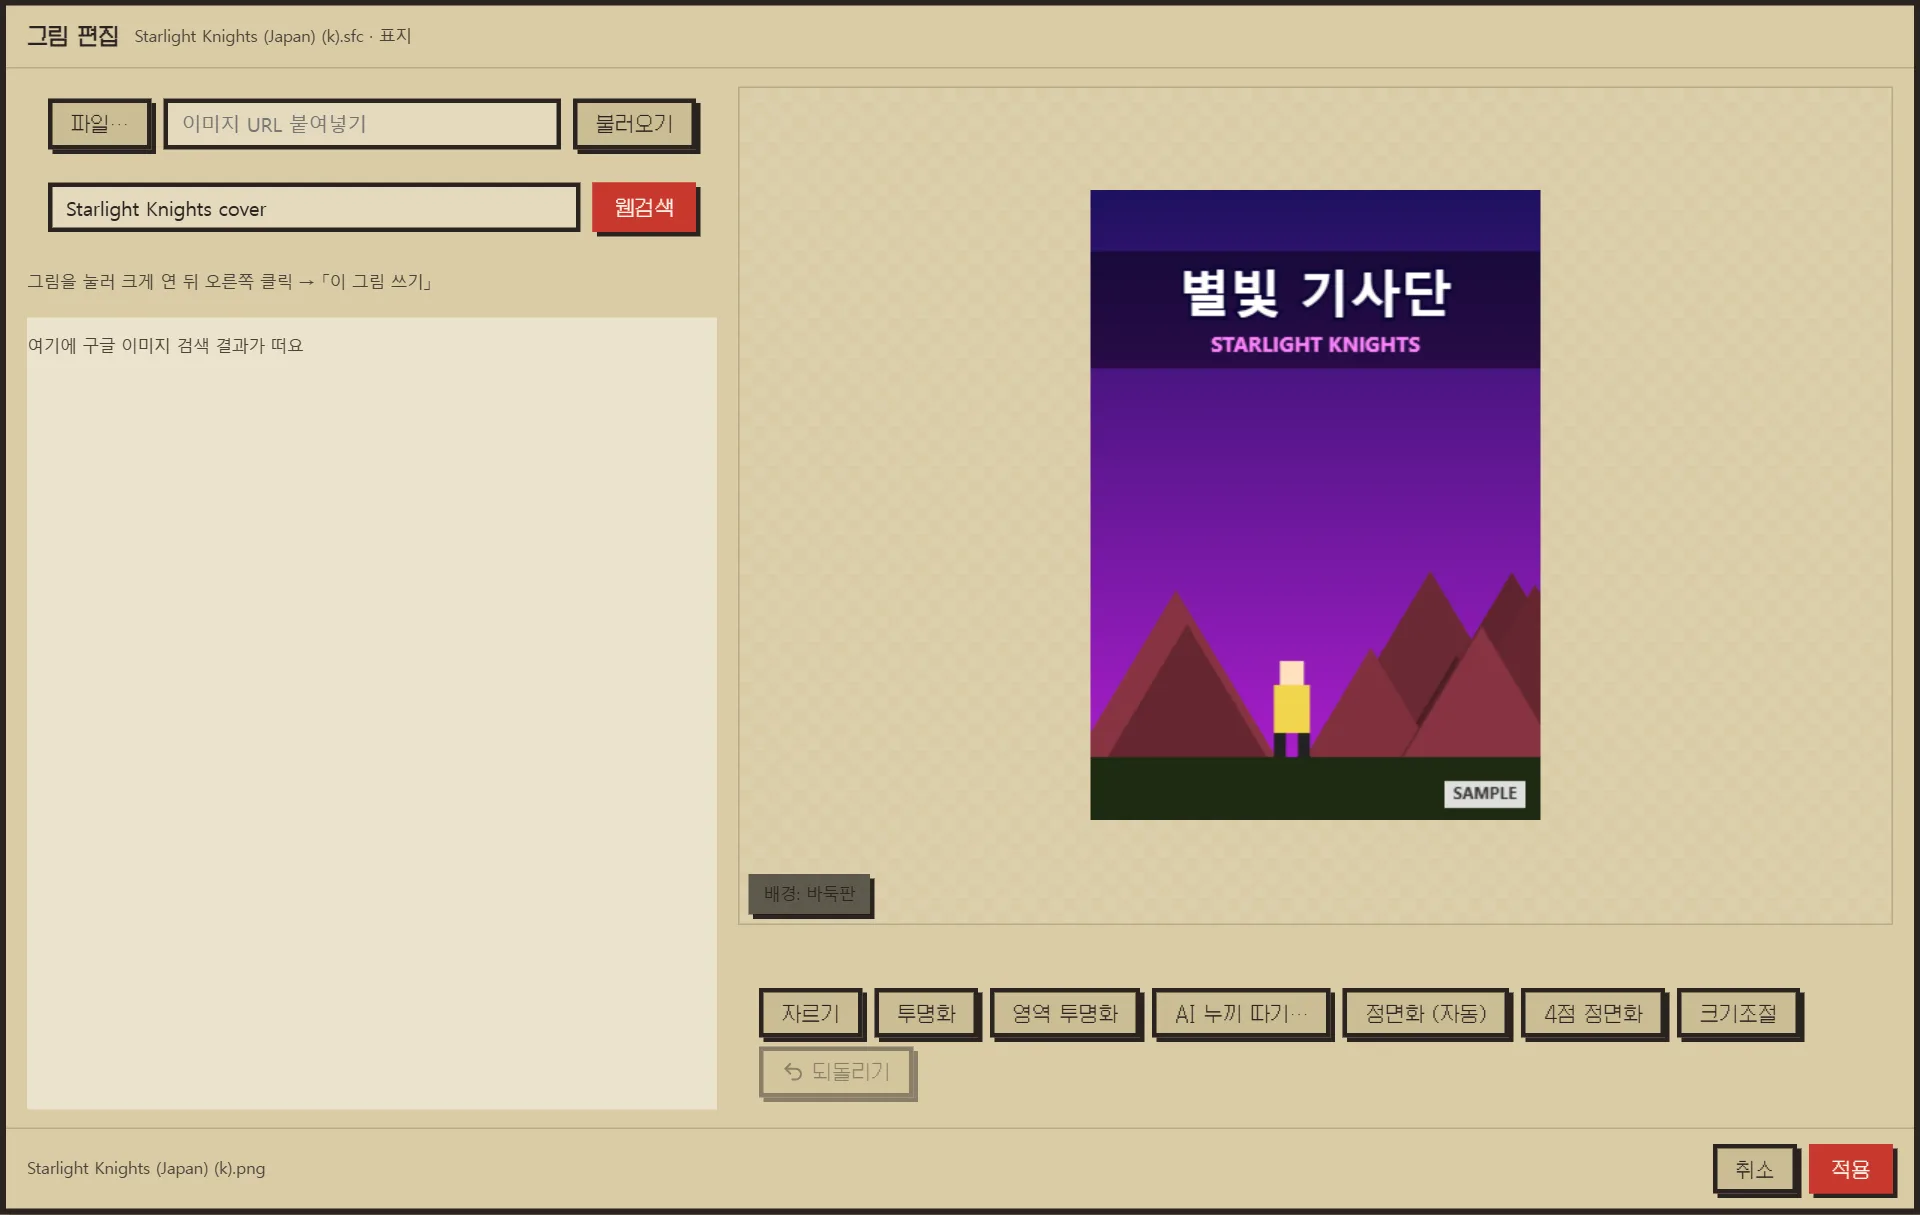
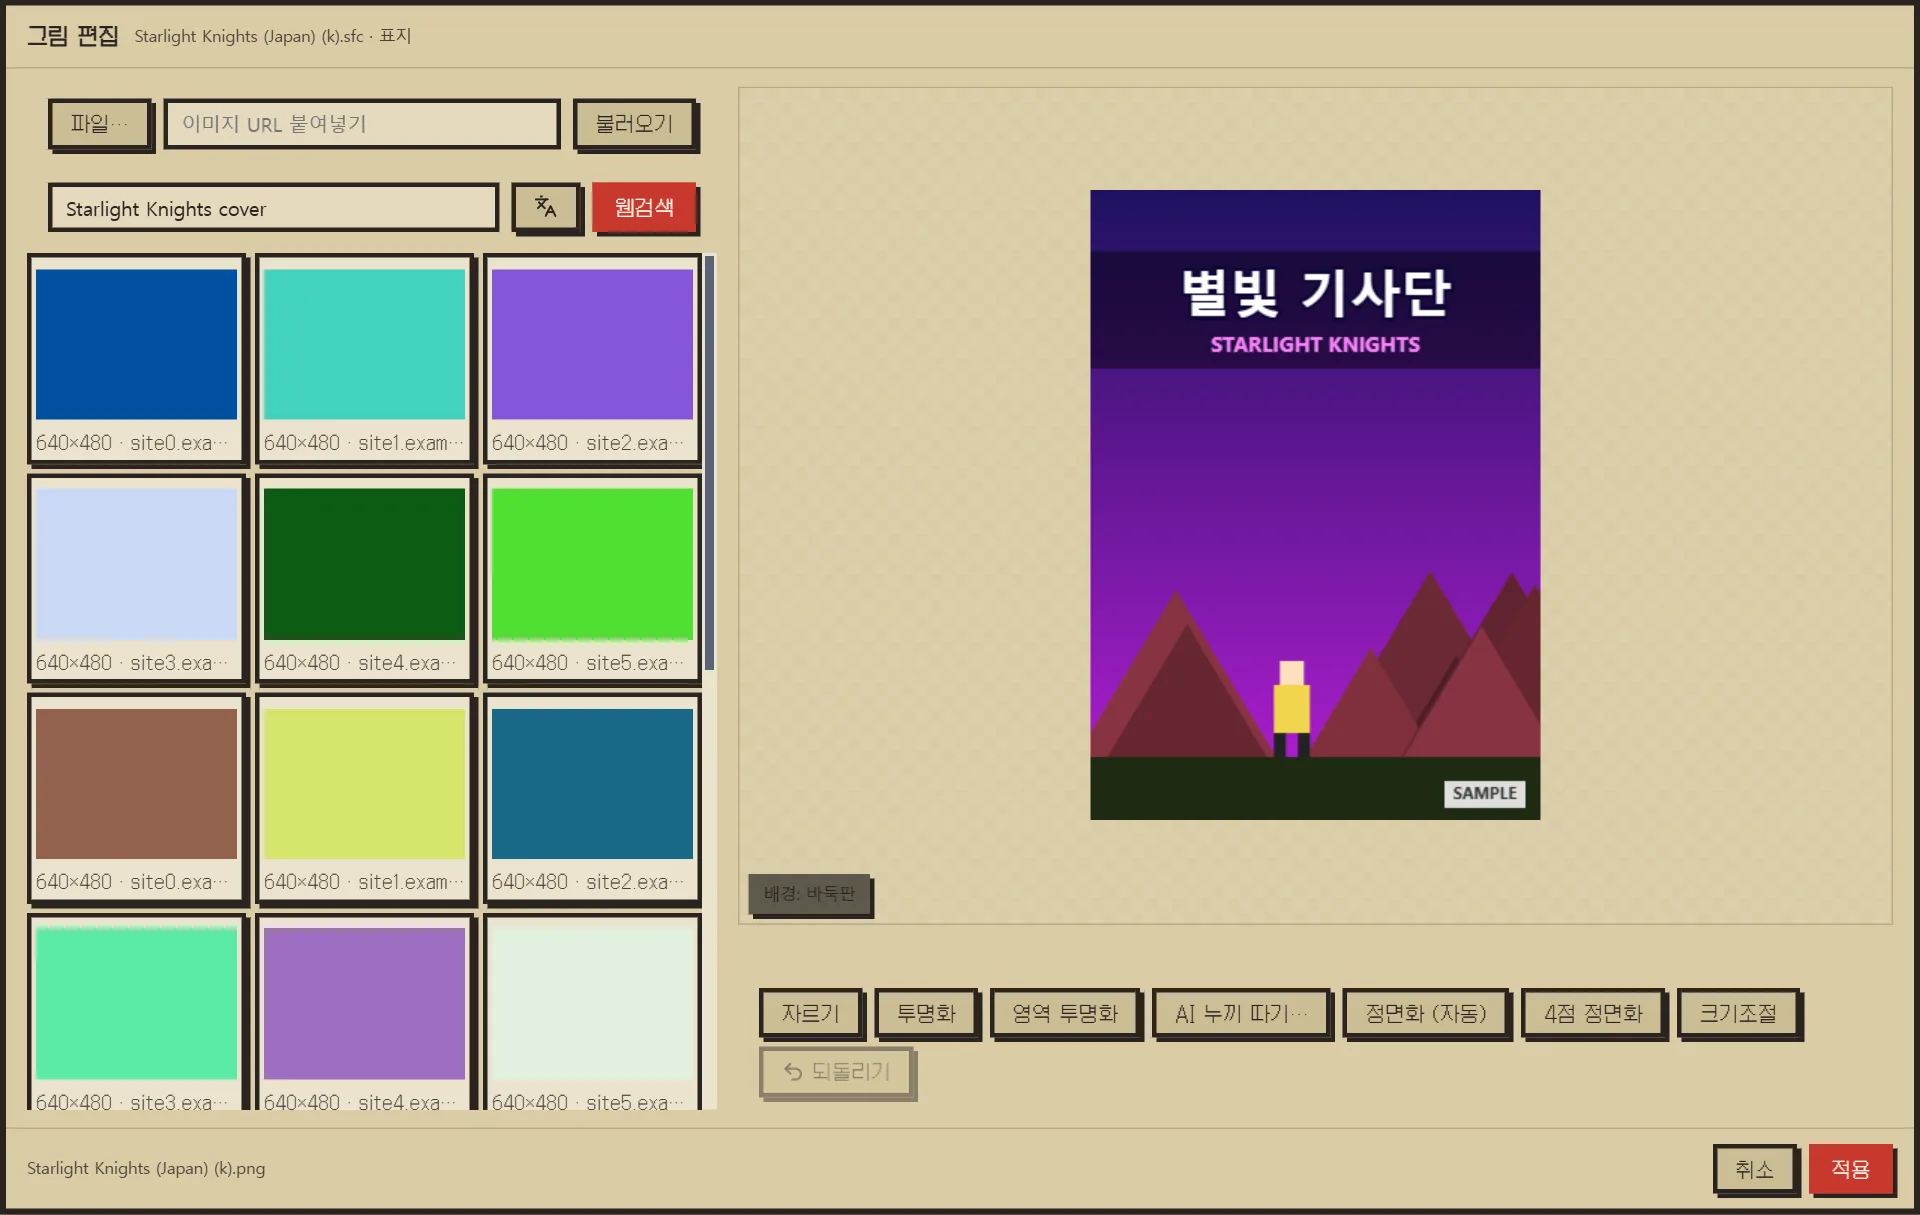
[Docs] 업데이트 내역에 0.7.0 을 더하고 설명서 그림 편집 · 영상 넣기를 고친다
- 그림 편집 그림을 앱 칸 목록 화면으로 다시 찍고, 구글 결과 · 한/영 단추 · 앞표지 + 옆면 박스 글을 맞춘다

Changed region(s): [[0.0, 0.1523, 0.375, 0.9136]]

diff --git a/manual.html b/manual.html
@@ -278,10 +278,12 @@ table.list tr:last-child td{border-bottom:0}
 <p>서랍이나 메타 편집 창에서 그림 칸을 고르고 「그림 편집…」 · 「편집…」 을 눌러요.</p>
 <figure class="fig" id="fig-img">
 <div class="screen"><div class="stage"><img src="assets/manual/img.webp" alt="그림 편집 창. 왼쪽에 파일 · 주소 · 웹검색, 가운데 작업판, 오른쪽에 자르기 · 투명화 · AI 누끼 따기 · 정면화 같은 도구가 있다." width="1280" height="810" loading="lazy"><span class="box" data-n="1" style="--x:2.50%;--y:8.15%;--w:33.75%;--h:4.14%"><span class="num">1</span></span><span class="box" data-n="2" style="--x:1.41%;--y:15.00%;--w:35.94%;--h:76.30%"><span class="num">2</span></span><span class="box" data-n="3" style="--x:38.44%;--y:7.16%;--w:60.16%;--h:68.95%"><span class="num">3</span></span><span class="box" data-n="4" style="--x:38.44%;--y:80.31%;--w:60.16%;--h:10.99%"><span class="num">4</span></span><span class="box" data-n="5" style="--x:94.22%;--y:94.14%;--w:4.38%;--h:4.14%"><span class="num">5</span></span></div></div>
-<figcaption><ol class="legend"><li data-n="1"><span class="num">1</span><span><b>파일 · 주소</b> 내 그림 파일이나 이미지 주소로 가져와요.</span></li><li data-n="2"><span class="num">2</span><span><b>웹검색</b> 구글 이미지 결과를 눌러 크게 연 뒤 오른쪽 클릭 → 「이 그림 쓰기」.</span></li><li data-n="3"><span class="num">3</span><span><b>작업판</b> 휠로 확대 · 축소. 「배경」 으로 투명한 자리를 봐요.</span></li><li data-n="4"><span class="num">4</span><span><b>손보기</b> 자르기 · 투명화 · AI 누끼 따기 · 정면화 · 크기조절 · 되돌리기.</span></li><li data-n="5"><span class="num">5</span><span><b>적용</b> PNG 로 팩에 저장해요.</span></li></ol><a class="zoom" href="assets/manual/img.webp" target="_blank" rel="noopener">그림 크게 보기</a></figcaption>
+<figcaption><ol class="legend"><li data-n="1"><span class="num">1</span><span><b>파일 · 주소</b> 내 그림 파일이나 이미지 주소로 가져와요.</span></li><li data-n="2"><span class="num">2</span><span><b>웹검색</b> 구글 이미지 결과를 누르면 그 그림을 가져와요. 한글 제목이 있으면 옆 단추로 한글 · 영어 제목을 바꿔 찾아요.</span></li><li data-n="3"><span class="num">3</span><span><b>작업판</b> 휠로 확대 · 축소. 「배경」 으로 투명한 자리를 봐요.</span></li><li data-n="4"><span class="num">4</span><span><b>손보기</b> 자르기 · 투명화 · AI 누끼 따기 · 정면화 · 크기조절 · 되돌리기.</span></li><li data-n="5"><span class="num">5</span><span><b>적용</b> PNG 로 팩에 저장해요.</span></li></ol><a class="zoom" href="assets/manual/img.webp" target="_blank" rel="noopener">그림 크게 보기</a></figcaption>
 </figure>
 <ul>
-  <li>「웹검색」 을 누르면 창 안에 구글 이미지 결과가 떠요. 그림을 눌러 크게 연 뒤 오른쪽 클릭 → 「이 그림 쓰기」 로 가져와요. 로고를 찾을 때는 투명 배경 그림만 찾아요.</li>
+  <li>「웹검색」 을 누르면 구글 이미지 결과가 칸으로 떠요. 칸을 누르면 그 그림을 가져와요(원본을 못 받으면 구글의 작은 그림). 로고를 찾을 때는 투명 배경 그림만 찾아요.</li>
+  <li>한글 제목이 있는 게임은 검색 칸 옆 단추로 한글 제목 · 영어 제목 검색어를 바꿔 찾아요.</li>
+  <li>박스 전개 칸에서는 「앞표지 + 옆면으로 만들기」 로 [뒷표지(녹색) · 옆면 · 앞표지] 전개도를, 3D 박스 칸에서는 「앞표지 + 옆면으로 3D 박스 만들기」 로 상자를 바로 만들어요. 옆면 그림이 없으면 앞표지 가장자리에 제목을 세로로 적어 만들어요.</li>
   <li>「투명화」 는 네 모서리에서 이어진 배경만 지우고, 「영역 투명화」 는 누른 색이나 끈 사각형 안을 지워요.</li>
   <li>「정면화」 는 비스듬히 찍은 박스 사진을 똑바로 펴요. 「4점 정면화」 로 네 귀퉁이를 직접 찍을 수도 있어요.</li>
   <li>「AI 누끼 따기…」 는 그림 AI 에게 배경을 지워 달라고 보내요. 1~2분 걸리고 본인 키로 요금이 나가요. 쓸 서비스와 모델은 「설정 › AI 미디어 한글화 · 편집」 에서 골라요. 결과는 「되돌리기」 로 무를 수 있어요.</li>
@@ -345,7 +347,7 @@ table.list tr:last-child td{border-bottom:0}
 <h3>영상 넣기</h3>
 <p>서랍이나 메타 편집 창의 영상 칸에서 「영상 편집…」 을 눌러요.</p>
 <ul>
-  <li>창을 열면 게임 제목으로 유튜브를 바로 찾아요. 결과를 누르면 받아 오고, 영상 주소나 내 파일(mp4 · mkv · webm · mov)을 넣어도 돼요.</li>
+  <li>창을 열면 게임 제목으로 유튜브를 바로 찾아요. 결과를 누르면 받아 오고, 영상 주소나 내 파일(mp4 · mkv · webm · mov)을 넣어도 돼요. 한글 제목이 있으면 검색 칸 옆 단추로 한글 · 영어 제목을 바꿔 찾아요.</li>
   <li>영상을 틀며 손잡이 둘로 쓸 구간을 잡고 「선택 구간 적용」, 통째로 쓰려면 「전체 사용」 을 눌러요.</li>
   <li>처음 쓸 때 영상 도구(yt-dlp · ffmpeg)를 한 번 받아요.</li>
   <li>서랍에서 열었으면 바로 저장되고, 메타 편집 창에서 열었으면 그 창의 「적용」 때 저장돼요.</li>

diff --git a/updates.html b/updates.html
@@ -48,6 +48,27 @@
 
 <!-- 판을 낼 때 맨 위에 <li class="rel" id="v<판>"> 하나를 더한다. 항목은 해요체 한 줄. -->
 <ol class="log">
+  <li class="rel" id="v0.7.0">
+    <div>
+      <h2>0.7.0</h2>
+      <p class="when"><time datetime="2026-10-22">2026-10-22</time></p>
+    </div>
+    <div>
+      <p class="intro">그림 편집 창의 구글 이미지를 앱 목록으로 바꾸고, 앞표지와 옆면으로 박스 그림을 바로 만들게 한 판이에요.</p>
+      <h3>팩</h3>
+      <ul>
+        <li>그림 편집 창의 「웹검색」 이 구글 화면을 그대로 띄우지 않고 결과를 앱 칸으로 늘어놓아요. 칸을 누르면 그 그림을 가져오고, 원본을 못 받으면 구글의 작은 그림을 가져와요.</li>
+        <li>그림 편집 창을 열 때 저절로 찾은 결과와 검색 칸에서 Enter 로 다시 찾은 결과가 다르던 것을 고쳤어요. 앱을 켠 동안은 같은 결과가 나와요.</li>
+        <li>한글 제목이 있는 게임은 그림 편집 창 · 영상 편집 창의 검색 칸 옆 단추로 한글 제목과 영어 제목 검색어를 바꿔 바로 찾아요.</li>
+        <li>박스 전개 칸의 그림 편집 창에 「앞표지 + 옆면으로 만들기」 를 넣었어요. 뒷표지 자리는 녹색으로 채우고, 옆면 그림이 없으면 앞표지 가장자리에 제목을 세로로 적어 만들어요.</li>
+        <li>3D 박스 칸의 「앞표지 + 옆면으로 3D 박스 만들기」 는 한 번 누르면 상자까지 만들어요. 「되돌리기」 를 한 번 누르면 앞표지로 돌아가요.</li>
+      </ul>
+      <h3>고친 것</h3>
+      <ul>
+        <li>자동 업데이트가 「다른 프로그램이 쓰고 있어요」 로 멈추던 것을 고쳤어요. 이제 새 판을 다 받으면 앱이 꺼진 뒤 바꿔 끼우고 다시 켜요.</li>
+      </ul>
+    </div>
+  </li>
   <li class="rel" id="v0.6.0">
     <div>
       <h2>0.6.0</h2>
